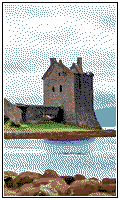
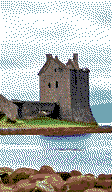
Kernel entry on line 9: 200-line images on NTSC
$d015 = 0 does not stop a running sprite block, so on NTSC the blocks of an
image ending on raster 251 run on to line 8 of the next frame, disturbing the
sync of a kernel entered on line 2 (crash in timing.Vic, then ~534 wrong
pixels in VICE). Entering on line 9 avoids it:

- raster IRQ and entry window on line 9 (IRQ_LINE / V2I_IRQ_LINE); the
  prologue writes the Y registers and $d015 first so sprite 0 is on before
  its first compare
- exact per-sprite DMA end in sprite_lines; the final $d015 = 0 lands after
  the last line's Y compares
- no $d020/$d021 writes in the kernel (85xx grey dot, visible on NTSC);
  v2i_start sets them
- .v2i version 3 (kernels for the old entry line are refused), CACHE_VERSION 5
- input/castle.png without the old png2c64 -b frame (112x192)

Verified PAL and NTSC: 0 differing pixels everywhere, plus a 200-line NTSC image.

diff --git a/vic2/convert.py b/vic2/convert.py
@@ -17,6 +17,8 @@ from . import timing
 from .timing import T, Task, SchedFail
 
 SPR_START = [14 + 2 * s for s in range(8)]   # raster of each sprite's first block
+IRQ_LINE = 9          # kernel entry line (V2I_IRQ_LINE): below sprite DMA left running
+                      # past the frame end (200-line image on NTSC: up to line 8)
 ZERO_SLOT = 16        # sprite pointer of the all-zero block ($c400)
 D011 = 0x3B
 PIX_C0 = 13           # cycle in which sprite X coordinate x is drawn = PIX_C0 + x//8
@@ -94,8 +96,12 @@ class Geometry:
         return ZERO_SLOT + 1 + (k - k0) * 8 + s
 
     def sprite_lines(self):
-        last = self.raster0 + self.h + 21
-        return [range(SPR_START[s], last) for s in range(8)]
+        """DMA lines of each sprite: $d015 = 0 lands in the image's last line after the Y
+        compares (see "off" in Converter.run), so blocks starting on the line below still
+        start, none later, and a started block runs its 21 lines (possibly into the next
+        frame, which timing.Vic wraps to the top)."""
+        r = self.raster0 + self.h
+        return [range(SPR_START[s], block_start(s, block_of(s, r)) + 21) for s in range(8)]
 
 
 # ---------------------------------------------------------------- spans
@@ -274,16 +280,18 @@ class Converter:
         RASTER0, XREG0, IMG_W, IMG_H = g.raster0, g.xreg0, g.w, g.h
         slot_of = g.slot_of
         vic = timing.Vic(badlines(), g.sprite_lines())
-        entry = [T(2, c) for c in range(20, 48)]
+        entry = [T(IRQ_LINE, c) for c in range(20, 48)]
         k = timing.Kernel(vic, entry)
-        pro = [(0xD011, D011), (0xD016, 0x08), (0xD018, 0x08), (0xD020, 0), (0xD021, 0),
-               (0xD015, 0), (0xD010, 0), (0xD017, 0), (0xD01B, 0), (0xD01C, 0), (0xD01D, 0)]
+        # sprites on before sprite 0's first Y compare (line SPR_START[0] - 1, cycle 55 on
+        # PAL), so the Y registers and $d015 first ($d015 is 0 from the last frame or
+        # v2i_stop); pointers, colours and the rest are needed only from the image on
+        pro = [(REG_Y[s], SPR_START[s] - 1) for s in range(8)]
+        pro += [(0xD017, 0), (0xD015, 0xFF)]
+        pro += [(PTR[s], ZERO_SLOT) for s in range(8)]
+        pro += [(r, 0) for r in (0xD010, 0xD01B, 0xD01C, 0xD01D)]   # not $d020/$d021 (v2i_start)
+        pro += [(0xD016, 0x08), (0xD018, 0x08), (0xD011, D011)]
         for s in range(8):
-            pro.append((PTR[s], ZERO_SLOT))
-            pro.append((REG_Y[s], SPR_START[s] - 1))
-            pro.append((REG_X[s], "X%d" % s))
-            pro.append((REG_C[s], "C%d" % s))
-        pro.append((0xD015, 0xFF))
+            pro += [(REG_X[s], "X%d" % s), (REG_C[s], "C%d" % s)]
         k.prologue(pro)
         t0 = k.sync()
         self.log("  sync done at raster %d cycle %d" % (timing.raster_of(t0), timing.cyc_of(t0)))
@@ -356,9 +364,10 @@ class Converter:
                 if why:
                     self.bad_lines[y] = why
         # end of image: sprites off before any further Y compare, so no block starts without
-        # its pointer (the rest of the screen may hold text)
+        # its pointer (the rest of the screen may hold text); after the Y compares in the last
+        # line, so the blocks starting below it always start (sprite_lines models them)
         r = RASTER0 + IMG_H
-        lo = T(r - 1, pc(XREG0 + IMG_W - 1) + 1 + MARGIN)
+        lo = max(T(r - 1, pc(XREG0 + IMG_W - 1) + 1 + MARGIN), T(r - 1, timing.Y_AFTER))
         off = sch.new_task(0xD015, 0, lo, T(r, 54), "off")
         extra = [p for (B, p) in ptr_tasks if B <= r and p.id not in sch.tasks]
         sch.add([off] + extra, r)

diff --git a/vic2/timing.py b/vic2/timing.py
@@ -77,17 +77,24 @@ class Vic:
     """BA (bus available) timeline for a frame."""
 
     def __init__(self, badlines, sprite_lines):
-        """badlines: iterable of raster lines; sprite_lines[s]: rasters on which sprite s is displayed."""
+        """badlines: iterable of raster lines; sprite_lines[s]: rasters on which sprite s is
+        displayed. Lines past the frame's last one are left out."""
         self.n = (LINES + 1) * CYCLES + 200
         ba = bytearray(self.n)
         for r in badlines:
             for c in range(12, 55):
                 ba[T(r, c)] = 1
+        # $d015 = 0 does not stop a running sprite DMA: it ends with its 21-line block, which
+        # can run past the last line (200-line image on NTSC) into the top of the next frame.
+        # It ends by line 8, before the kernel's entry line (convert.IRQ_LINE), so it is
+        # left out here.
+        frame = LINES * CYCLES
         for s, lines in enumerate(sprite_lines):
             for d in lines:
                 tp = p_time(s, d)
                 for t in range(tp - 3, tp + 2):
-                    ba[t] = 1
+                    if t < frame:
+                        ba[t] = 1
         self.ba = ba
         # wb[t]: a write cycle is not possible at t (BA low for 4+ cycles -> AEC low)
         wb = bytearray(self.n)
@@ -148,11 +155,15 @@ class Kernel:
 
     def prologue(self, writes):
         """writes: list of (reg, value or patch-name)."""
+        a = None
         for reg, val in writes:
             if isinstance(val, str):
                 self.patches[val] = len(self.code) + 1
-                val = 0
-            self._emit_h("lda#", val)
+                self._emit_h("lda#", 0)
+                a = None
+            elif val != a:
+                self._emit_h("lda#", val)
+                a = val
             self._emit_h("sta", reg & 0xFF, reg >> 8)
 
     def sync(self, max_steps=400):

diff --git a/vic2/build.py b/vic2/build.py
@@ -37,7 +37,7 @@ from .screen import Screen
 ROOT = os.path.dirname(os.path.dirname(os.path.abspath(__file__)))
 BUILD = os.path.join(ROOT, "build", "pal")  # build/ntsc with --ntsc (see use_system)
 ASM = os.path.join(ROOT, "asm")
-V2I_VERSION = 2
+V2I_VERSION = 3
 V2I_LOAD = 0x2000
 PLAYER_BUF = 0x2800           # diskshow and viewer load images here, texts at $9800
 V2T_LOAD = 0x1800
@@ -66,7 +66,7 @@ def rle_zero(data):
     return out + b"\0\0"
 
 
-CACHE_VERSION = 4             # bump when the .v2i packing below changes
+CACHE_VERSION = 5             # bump when the .v2i packing below changes
 CACHE_SOURCES = ("convert.py", "timing.py", "palette.py")
 
 

diff --git a/CLAUDE.md b/CLAUDE.md
@@ -69,7 +69,8 @@ The C64 side is two independent libraries, `asm/v2i.inc` (images) and `asm/v2t.i
   (white/white/black/white) into the ring of cells around the image if it fits on
   screen. The `.v2i` format does not know about it. Images without room for the ring are
   not framed. `--verify` compares the frame too.
-- Each image gets its own unrolled, cycle-exact kernel, run from a raster IRQ at line 2.
+- Each image gets its own unrolled, cycle-exact kernel, run from a raster IRQ at line 9
+  (`IRQ_LINE`, `V2I_IRQ_LINE`; line 2 before `.v2i` version 3).
   It is position independent (only touches zp `$02`, VIC registers, pointers at `$c3f8`).
   Host programs run in the rest of the frame (below the image); the library's text
   routines are safe to call then.
@@ -77,7 +78,7 @@ The C64 side is two independent libraries, `asm/v2i.inc` (images) and `asm/v2t.i
   entry times ("hypotheses") and emits RMW/store instructions that land on the start of BA
   low periods until all hypotheses merge. Keep the IRQ prologue in `v2i.inc`
   (`sta/stx/sty zp`, `jsr v2i_kjump`, `jmp (v2i_kvec)`) as is; the entry window assumed in
-  `convert.py` (`T(2, 20..47)`) depends on it. It covers any interrupted instruction
+  `convert.py` (`T(IRQ_LINE, 20..47)`) depends on it. It covers any interrupted instruction
   (the `ask` verify build draws text continuously and still matches).
 - All 8 sprites run continuously in 21-line blocks with staggered phases (`SPR_START`), so
   every kernel line has the same sprite DMA. Pointer writes must land on the line before a
@@ -87,7 +88,16 @@ The C64 side is two independent libraries, `asm/v2i.inc` (images) and `asm/v2t.i
 - Y restart tasks are added 21 lines early (`fixed[B - 21]`) so EDF fills idle time with
   them; adding them at their deadline caused failures on 200-line images.
 - At the end of the image a timed `$d015 = 0` stops sprites before any new block starts
-  without its pointer (otherwise old sprite data repeats below the image).
+  without its pointer (otherwise old sprite data repeats below the image). It lands after
+  the last line's Y compares, so blocks starting on the line below always start, and
+  `sprite_lines` gives each sprite's exact DMA end: `$d015 = 0` does not stop a running
+  block. On NTSC the blocks of an image ending on raster 251 (200 lines) run on to line 8
+  of the next frame, which is why the kernel is entered on line 9 (`timing.Vic` leaves
+  DMA past the last line out). The prologue writes the Y registers and `$d015` first, so
+  sprite 0 is on before its first compare (line 13).
+- No border/background writes in the kernel: an 85xx VIC-II (VICE emulates it) shows a
+  grey dot for a colour register write, and lines 9-11 are visible on NTSC (a dot left of
+  the image broke `compare_screenshot`'s alignment). `v2i_start` sets them.
 - Pixel timing: sprite X coordinate x is drawn in cycle `PIX_C0 + x // 8` (13), with
   `MARGIN = 1` cycle on each side of every edge. Validated against VICE; changing either
   needs a `--verify` run. The same on NTSC (X = 0 falls in cycle 13 on both chips).
@@ -208,6 +218,10 @@ The C64 side is two independent libraries, `asm/v2i.inc` (images) and `asm/v2t.i
 - NTSC sprite DMA from Bauer's vic-ii.txt alone: its 6567R8 diagram is abbreviated and
   reads as sprites 0-2 at 60/62/64 with 3-7 unchanged; that gave ~2300 wrong pixels in
   VICE, and guessed shifts did not converge. VICE's cycle tables (above) gave 0.
+- 200-line NTSC images with entry on line 2: modelling the leftover DMA in lines 0-8
+  failed (the first frame has none; the sync then lands wrong, no block starts, so the
+  next frame has none either: a stable state without sprites). Tracking hypotheses for
+  both cases spread them ~60 cycles and the sync ran to line 86. Entry on line 9 fixed it.
 
 ## Ideas not done yet
 

diff --git a/docs/v2i-lib.md b/docs/v2i-lib.md
@@ -37,10 +37,10 @@ A/Y = address means A = low byte, Y = high byte. All routines may change A, X an
 |---|---|---|
 | `v2i_init` | | `SEI`, ROMs out (`$01` = `$35`), CIA interrupts off, VIC bank 3, own IRQ/NMI vectors. Saves `$d000-$d02e`, `$dd00`/`$dd02` and `$01` for `v2i_exit`. Detects the video system (`v2i_system`, up to one frame). |
 | `v2i_detect` | | Sets `v2i_system` (see below) from the last raster line: up to one frame, interrupts held off meanwhile. Works with the KERNAL on too, before `v2i_init`, for example to pick which file to load. `v2i_init` calls it. |
-| `v2i_show` | A/Y = `.v2i` | Clears `$c000-$feff`, unpacks the image, points the IRQ at its kernel and sets the image info. Only while stopped. C=1: not shown, A = `V2I_ERR_FORMAT` (not a version 2 `.v2i`) or `V2I_ERR_SYSTEM` (the file is for the other video system, or the machine's VIC-II is not supported). |
+| `v2i_show` | A/Y = `.v2i` | Clears `$c000-$feff`, unpacks the image, points the IRQ at its kernel and sets the image info. Only while stopped. C=1: not shown, A = `V2I_ERR_FORMAT` (not a version 3 `.v2i`) or `V2I_ERR_SYSTEM` (the file is for the other video system, or the machine's VIC-II is not supported). |
 | `v2i_errmsg` | A = error | A/Y = a zero-terminated PETSCII message for an error from `v2i_show`, such as "THIS IMAGE IS FOR AN NTSC C64". Print it after `v2i_exit` (KERNAL `CHROUT`). |
 | `v2i_frame` | A = colour | Draws the 4 px frame (white, white, black, white) into the ring of cells around the image, in cell colour A (`$10`: white on black). Does nothing if the ring doesn't fit on the screen. |
-| `v2i_start` | | Raster IRQ at line 2, `CLI`. The image is displayed from the next frame on. |
+| `v2i_start` | | Border and background black, raster IRQ at line 9 (`V2I_IRQ_LINE`), `CLI`. The image is displayed from the next frame on. |
 | `v2i_stop` | | `SEI`, IRQ off, sprites off, screen blanked. |
 | `v2i_exit` | | `v2i_stop`, then restores what `v2i_init` saved (sprite registers, colours, mode, bank, `$01`), turns the CIA1 timer IRQ back on for the KERNAL, and does a `CLI`. |
 
@@ -61,9 +61,9 @@ A/Y = address means A = low byte, Y = high byte. All routines may change A, X an
 
 ## While the image is displayed
 
-The kernel takes the CPU from raster line 2 down to `v2i_end` in every frame. The rest is
-yours: for a 128-line image at the top that's about 135 of 312 lines on PAL, roughly 40%
-of the machine, and about 85 of 263 lines on NTSC. A 200-line image leaves only a few
+The kernel takes the CPU from raster line 9 down to `v2i_end` in every frame. The rest is
+yours: for a 128-line image at the top that's about 140 of 312 lines on PAL, roughly 45%
+of the machine, and about 90 of 263 lines on NTSC. A 200-line image leaves about 20
 lines on NTSC. Your main program just runs and gets interrupted.
 
 - **Text:** the v2t routines are safe to call while the image is displayed. The `ask`
@@ -73,6 +73,6 @@ lines on NTSC. Your main program just runs and gets interrupted.
 - **Music and timing:** call a SID player from `v2i_hook`, and use `v2i_ticks` for delays.
 - **Not possible:** KERNAL calls such as `LOAD` and `CHROUT` (`v2i_stop` and switch `$01`
   back first), and sprites of your own (the kernel uses all eight). Don't keep interrupts
-  disabled across line 2, or the kernel misses that frame.
+  disabled across line 9, or the kernel misses that frame.
 - **Any instruction is fine** in the main program: the kernel's entry window allows for
   the longest 6502 instructions.

diff --git a/docs/v2i-format.md b/docs/v2i-format.md
@@ -1,4 +1,4 @@
-# .v2i image format (version 2)
+# .v2i image format (version 3)
 
 A `.v2i` file holds one converted image: a hires bitmap, its cell colours, the sprite data,
 and a *kernel*. The kernel is 6502 code generated for this image that rewrites the sprite
@@ -17,7 +17,7 @@ All words are little endian. Offsets are from the start of the data, after the P
 | offset | size | field |
 |---|---|---|
 | 0 | 3 | magic `"V2I"` |
-| 3 | 1 | format version, 2 |
+| 3 | 1 | format version, 3 |
 | 4 | 1 | width in cells (width / 8) |
 | 5 | 1 | height in cells (height / 8) |
 | 6 | 1 | character column of the image's left edge |
@@ -34,7 +34,8 @@ All words are little endian. Offsets are from the start of the data, after the P
 | 25 | 1 | reserved, 0 |
 | 26 | ... | kernel, then the bitmap, screen and sprite streams, back to back |
 
-Version 1 had no video system byte (always PAL) and a 24-byte header.
+Version 2 kernels were entered on raster line 2 (same layout). Version 1 had no video
+system byte (always PAL) and a 24-byte header.
 
 ## Streams
 
@@ -57,11 +58,14 @@ wrong cycle (`v2i_show` refuses such a file). The sprite and bitmap data are con
 together with the kernel, so they differ between PAL and NTSC files too. It assumes:
 
 - **Screen layout:** VIC bank 3 (`$c000-$ffff`), with the screen at `$c000`, sprite
-  pointers at `$c3f8` and the bitmap at `$e000`. It sets `$d011` = `$3b`, `$d016` = `$08`,
-  `$d018` = `$08` and the border and background to black, but doesn't select the bank
-  itself.
-- **Entry time:** it is entered on raster line 2, between cycles 20 and 47 of that line.
-  `v2i.inc`'s IRQ handler (raster IRQ at line 2, then `STA`/`STX`/`STY` to zero page,
+  pointers at `$c3f8` and the bitmap at `$e000`. It sets `$d011` = `$3b`, `$d016` = `$08` and
+  `$d018` = `$08`, but doesn't select the bank itself or touch the border and background
+  colours (`v2i_start` sets them to black: a colour write leaves a grey dot on the 85xx,
+  and the kernel's first lines are visible on NTSC).
+- **Entry time:** it is entered on raster line 9, between cycles 20 and 47 of that line.
+  Line 9 is below the sprite DMA that can still be running from the previous frame:
+  `$d015` = 0 does not stop a sprite's 21-line block, and on NTSC (263 lines) the blocks
+  of a 200-line image run on to line 8. `v2i.inc`'s IRQ handler (raster IRQ at line 9, then `STA`/`STX`/`STY` to zero page,
   `JSR`, `JMP (vector)`) gets there from any interrupted instruction. The kernel's first
   instructions sync to the exact cycle, so the entry time can vary within that window.
 - **No DMA surprises:** nothing else may change VIC registers or steal cycles while it
